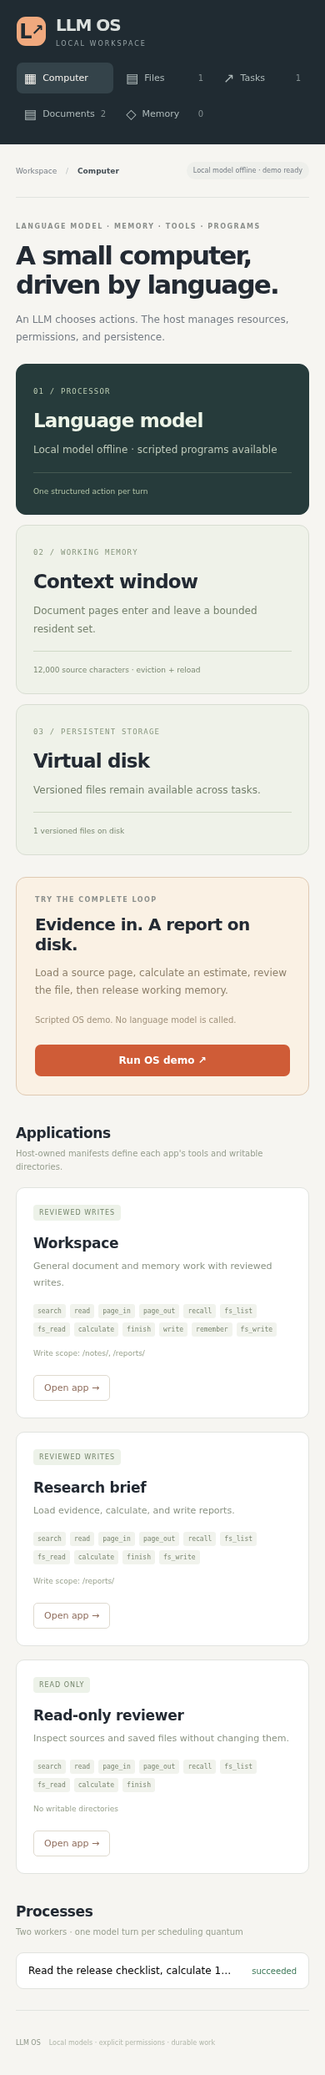
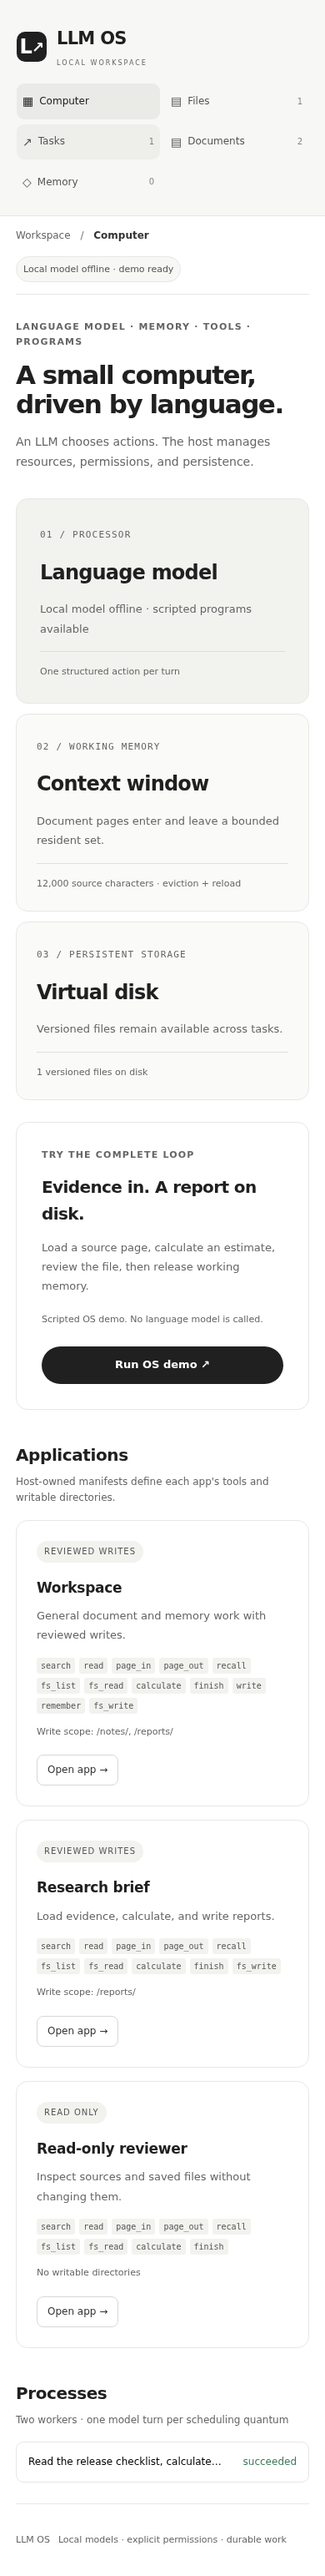
Refresh workspace with neutral surfaces and accessible responsive navigation

diff --git a/llm_os/static/style.css b/llm_os/static/style.css
@@ -39,3 +39,50 @@
 .resident-pages small{font-size:10px;color:#98a28b}
 @media(max-width:1100px){.machine-map,.app-grid{grid-template-columns:1fr}.machine-unit p{min-height:0}.machine-unit h2{margin-top:15px}.unit-detail{margin-top:15px}.app-card{padding:20px}.os-demo-card{align-items:start}.section-title{align-items:start}}
 @media(max-width:700px){nav{display:grid;grid-template-columns:repeat(3,1fr)}.machine-map{gap:12px}.machine-unit{padding:20px}.os-demo-card{padding:22px;flex-direction:column;align-items:stretch}.os-demo-card h2{font-size:20px}.os-version{display:none}.section-title{flex-direction:column;gap:7px}.process-row{grid-template-columns:minmax(0,1fr) 65px;gap:8px;padding:14px}.process-row small{display:none}.ram-heading{flex-direction:column;gap:6px}.document-card h3{overflow-wrap:anywhere}}
+
+/* Neutral UI refresh: presentation only; execution contracts remain unchanged. */
+:root{color-scheme:light;--ink:#202020;--muted:#656565;--line:#e7e7e5;font-family:ui-sans-serif,-apple-system,BlinkMacSystemFont,"Segoe UI",sans-serif}
+body{background:#fff;color:#202020;line-height:1.6;overflow-wrap:anywhere}
+button,input,select,textarea{font:inherit}button:not(:disabled),a,summary{touch-action:manipulation}
+button:focus-visible,a:focus-visible,input:focus-visible,textarea:focus-visible,select:focus-visible,summary:focus-visible{outline:2px solid #202020;outline-offset:4px}
+button:not(:disabled):hover,.button:hover{filter:none}
+main,.panel,.card,.work-grid>*{min-width:0}h1{font-weight:550;letter-spacing:-1.5px;line-height:1.15}h2,h3{font-weight:550}
+.skip-link{position:absolute;left:16px;top:-100px;z-index:10;padding:10px 16px;background:#202020;color:white;border-radius:8px}.skip-link:focus{top:12px}
+@media(prefers-reduced-motion:reduce){*{scroll-behavior:auto!important;transition:none!important}}
+
+:root{background:#fff;--orange:#202020;--green:#246047}
+.sidebar{background:#f7f7f5;color:#202020;border-right:1px solid var(--line);padding-top:30px}
+.brand{font-size:21px;letter-spacing:-.7px}.brand-mark{background:#202020;color:#fff;border-radius:10px;width:36px;height:36px;font-size:24px}
+.brand small,.workspace-label,.version,.recent-label,.task-link small,.sidebar-foot p{color:var(--muted)}
+.nav{color:#555;font-size:14px;border-radius:9px}.nav.active{background:#eaeae7;color:#202020}.nav:hover,.task-link:hover{background:#eeeeeb}
+.task-link{color:#333}.task-link.selected{background:#eaeae7;border-left-color:#202020}.sidebar-foot{border-color:var(--line);color:#555}
+.topbar{height:82px;font-size:12px}.topbar strong{color:#333}.topbar span{color:#767676}.connection{background:#f7f7f5;color:#555;border:1px solid var(--line);font-size:11px}
+.page-heading{margin:48px 0 32px}.eyebrow{font-size:11px;letter-spacing:1.2px;color:#656565}.intro{font-size:14px;color:#656565}
+.os-version,.local-stamp{color:#656565}.local-stamp{transform:none;border-radius:12px;border-color:var(--line)}
+.composer{border-color:var(--line);border-radius:16px;padding:26px;box-shadow:none}.composer>label{font-size:12px;color:#555}.composer textarea{color:#202020}.composer textarea:focus-visible{outline:2px solid #202020;outline-offset:6px}
+.composer-bottom{border-color:var(--line)}.compact,.check,.mode-note{font-size:12px;color:#656565}.compact select{font-size:12px;background:#fafafa;border-color:#d6d6d3;border-radius:8px}
+.primary{background:#202020;color:white;border-radius:999px;font-size:13px;font-weight:550;padding:12px 20px}.primary:hover{background:#3c3c3c}.subtle{color:#333;border-color:#d7d7d4;background:white;border-radius:8px;font-size:12px}
+.machine-unit,.machine-unit.processor{background:#fafaf9;color:#202020;border-color:var(--line);border-radius:14px;padding:28px}
+.machine-unit.processor{background:#f2f2ef}.unit-number,.processor .unit-number{color:#656565;font-size:11px}.machine-unit p,.processor p{font-size:13px;color:#656565}
+.unit-detail,.processor .unit-detail{border-color:#dededb;color:#656565;font-size:11px}.machine-unit h2{font-size:24px}
+.os-demo-card{background:white;border-color:var(--line);padding:30px;border-radius:14px}.os-demo-card p:not(.eyebrow){font-size:13px;color:#656565}.os-demo-card small{color:#656565;font-size:11px}
+.section-title{margin-top:38px}.section-title h2{font-size:20px}.section-title>span{font-size:12px;color:#656565}
+.app-card{border-radius:14px;padding:24px}.app-card p{font-size:13px;color:#656565}.app-card small{font-size:11px;color:#656565}.app-permission,.tool-tags span{font-size:10px;color:#555;background:#f2f2ef}.app-permission{border-radius:999px;padding:5px 9px}
+.process-row small,.process-row strong{font-size:12px}.process-row small{color:#656565}.process-row{border-color:var(--line)}.process-row:hover{background:#fafaf9}
+.metrics{background:white;border-radius:12px}.metric small{font-size:11px;color:#656565}.metric strong{font-size:17px}
+.panel{border-radius:12px}.panel-head{border-color:var(--line)}.panel-head h3{font-size:15px}.panel-head span{color:#656565;font-size:11px}
+.event{border-color:var(--line)}.event-icon{color:#555;background:#f2f2ef}.event-title{font-size:13px}.event-title small,.event summary{color:#656565;font-size:11px}
+.event pre,.artifact pre,.approval pre{background:#f7f7f5;color:#444;font-size:12px;border:1px solid var(--line);line-height:1.65}
+.approval{background:#fcfaf5;border-color:#e2d8c2;border-radius:12px}.approval .eyebrow,.approval p{color:#75531b}.approval p{font-size:13px}
+.placeholder,.empty-state p{color:#656565;font-size:13px}.empty-state{border-color:var(--line)}.empty-icon{color:#555;border-color:#ddd}.flow{color:#555}.flow span{background:#f3f3f0}
+.artifact button{font-size:12px;color:#246047}.boundary-note,.boundary-note p{color:#656565}.boundary-note strong{font-size:13px}.boundary-note p{font-size:12px}
+.ram-panel{background:#f7f7f5;border-color:var(--line)}.ram-heading strong{font-size:13px}.ram-heading span,.ram-panel>small,.resident-pages small{color:#656565;font-size:11px}
+.ram-panel meter{accent-color:#656565}.resident-pages span{color:#444;background:#e9e9e5;font-size:11px}
+.result{background:#f4f8f4;border-color:#dbe8dc;color:#285d40;font-size:13px}.notice{background:#fcf4f3;border-color:#efdcd9;color:#a23d35}
+.document-card pre,.document-card small,.muted{color:#656565;font-size:12px}.document-card h3{overflow-wrap:anywhere}.document-card{border-radius:12px}
+dialog{background:white;border-radius:16px}dialog input,dialog textarea{border-color:#d7d7d4}
+footer,footer span{color:#656565;font-size:11px}
+@media(max-width:700px){.sidebar{border-right:0;border-bottom:1px solid var(--line)}nav{gap:6px}.nav{min-width:0;padding:10px 7px}.nav>span:not(.count){font-size:12px}.nav .count{font-size:10px}.page-heading{margin-top:30px}.machine-unit{padding:24px}.composer{padding:22px}.compact select{max-width:100%}.controls{width:100%}.approval-actions{flex-wrap:wrap}.event-title{flex-wrap:wrap}.event-title small{white-space:normal}.topbar{height:auto;min-height:68px;flex-wrap:wrap;padding:14px 0}.connection{max-width:100%}.process-row{grid-template-columns:minmax(0,1fr) 80px}}
+
+/* Keep navigation labels intact on narrow viewports. */
+@media(max-width:700px){nav{grid-template-columns:repeat(2,minmax(0,1fr))}}

diff --git a/llm_os/static/index.html b/llm_os/static/index.html
@@ -5,6 +5,7 @@
   <title>LLM OS — Local workspace</title><link rel="stylesheet" href="/style.css">
 </head>
 <body>
+  <a class="skip-link" href="#main">Skip to content</a>
   <aside class="sidebar">
     <a class="brand" href="/"><span class="brand-mark">L<span>↗</span></span><span>LLM OS<small>LOCAL WORKSPACE</small></span></a>
     <div class="workspace-label"><span class="dot"></span> Personal workspace <span class="version">v0.2</span></div>
@@ -12,7 +13,7 @@
     <div class="recent-label">RECENT TASKS</div><div id="task-list" class="task-list"></div>
     <div class="sidebar-foot"><span class="dot"></span> Runs on your machine<p>Read. Propose. Review. Save.</p></div>
   </aside>
-  <main>
+  <main id="main" tabindex="-1">
     <header class="topbar"><div>Workspace <span>/</span> <strong id="view-label">Computer</strong></div><div class="connection" id="connection">Checking local model…</div></header>
     <div id="notice" class="notice" role="status" hidden></div>
     <section id="computer-view">

diff --git a/docs/ui-design.md b/docs/ui-design.md
@@ -1,0 +1,15 @@
+# Interface refresh
+
+The workspace uses an OpenAI-inspired neutral visual direction while retaining its own name and identity. White surfaces, a light sidebar, restrained status colors, larger secondary text and quieter borders replace the earlier orange/green palette.
+
+The presentation layer at the end of `llm_os/static/style.css` overrides the original theme without altering task actions, approval payloads, app permissions or persistence. A keyboard skip link reaches the main workspace; navigation labels use two columns on narrow screens.
+
+## Verification — 2026-10-16
+
+- Python unit/integration suite: 38 passed.
+- Playwright browser suite: 6 passed, including the existing file/memory approval flows.
+- New UI check covers keyboard entry, neutral surfaces, navigation and 320/768/1440px layouts.
+- Desktop and 390px mobile screenshots regenerated from the real scripted workflows and inspected.
+- No model inference, remote service connection or infrastructure deployment was introduced.
+
+The automated checks are targeted usability regressions, not a comprehensive accessibility audit. System fonts are used; no external font requests are made.

diff --git a/README.md b/README.md
@@ -11,6 +11,8 @@ architecture. It runs **inside** Linux, macOS, or WSL; it is not a bootable OS o
 
 ![Computer overview](docs/os-overview.png)
 
+The interface uses neutral surfaces, restrained status accents and responsive navigation. See [UI design and verification](docs/ui-design.md) for the visual refresh and keyboard checks.
+
 ## What runs today
 
 | Component | Implemented behavior |

diff --git a/docs/test-evidence.md b/docs/test-evidence.md
@@ -1,5 +1,7 @@
 # Test evidence
 
+Latest UI verification (2026-10-16): 38 Python checks and 6 browser tests passed. See [UI design notes](ui-design.md). The earlier run below remains as a historical record.
+
 Verified on 2026-09-28 with Python 3.11.15, Node.js 22.23.2, Playwright 1.63.0 and headless Chromium
 under WSL. Runtime code has no third-party Python dependencies.
 
